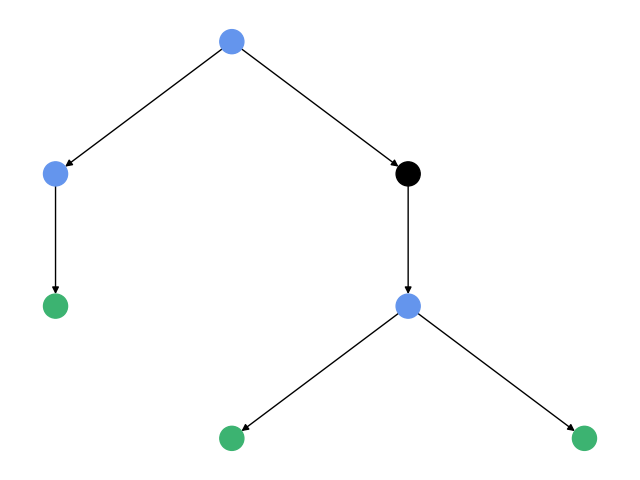
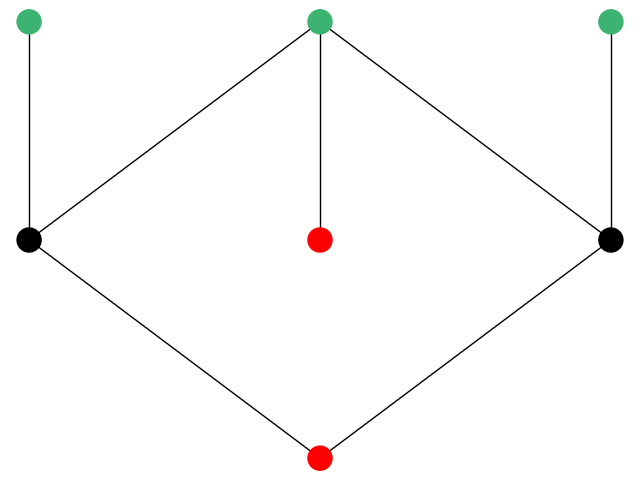
heading home

diff --git a/utils.py b/utils.py
@@ -411,7 +411,7 @@ def are_root_breakpoints(points):
                 out[i] = True
     return out
 
-def are_extremity_breakpoints(points): 
+def are_extremity_breakpoints(points):
     """Returns an array of boolean values assessing if each point is an extremity
     breakpoint by testing if it contains by two extremities, and is the most complex
     point that contains those two roots"""
@@ -491,7 +491,7 @@ def draw_arc(A, B, r = 0.25):
 
     theta = np.repeat(np.linspace(0, theta_limit, 100), 3).reshape((100, 3))
     return r * (np.cos(theta) * A + np.sin(theta) * B)
-    
+
 def create_tree_edges(points):
     # make a list of tuples describing orthogonal connections
     # and make a list of containments, for dotted lines
@@ -500,32 +500,54 @@ def create_tree_edges(points):
         for op, other_point in enumerate(points[p:]):
             if np.linalg.norm(point - other_point) == 1:
                 if is_contained_by(point, other_point):
-                    out.append((op+p, p))
-                else: 
                     out.append((p, op+p))
-    out = sorted(out, key=lambda x: x[0])
+                else:
+                    out.append((op+p, p))
+    # out = sorted(out, key=lambda x: x[0])
     return out
 
-def plot_tree(points, path):
+def plot_tree(points, path, type='root'):
+    """
+
+    possible types: root, extremity, root_extremity, root_breakpoint,
+    extremity_breakpoint,"""
     edges = create_tree_edges(points)
     G=nx.MultiDiGraph()
-    G.add_edges_from(edges)
+    G.add_edges_from(edges, style='dashed')
     edge_order = []
     for i in itertools.chain.from_iterable(edges):
         if i not in edge_order: edge_order.append(i)
     edge_order = np.array(edge_order)
     colors = np.repeat(0, len(points))
-    colors = np.where(are_extremities(points), 1, colors)
-    colors = np.where(are_extremity_breakpoints(points), 2, colors)
-    colors = [['black', 'mediumseagreen', 'cornflowerblue'][i] for i in colors]
+
+    if type == 'root':
+        colors = np.where(are_roots(points), 1, colors)
+        colors = [['black', 'red'][i] for i in colors]
+    elif type == 'extremity':
+        colors = np.where(are_extremities(points), 1, colors)
+        colors = [['black', 'mediumseagreen'][i] for i in colors]
+    elif type == 'root_extremity':
+        colors = np.where(are_roots(points), 1, colors)
+        colors = np.where(are_extremities(points), 2, colors)
+        colors = [['black', 'red', 'mediumseagreen'][i] for i in colors]
+    elif type == 'root_breakpoint':
+        colors = np.where(are_roots(points), 1, colors)
+        colors = np.where(are_root_breakpoints(points), 2, colors)
+        colors = [['black', 'red', 'mediumorchid'][i] for i in colors]
+    elif type == 'extremity_breakpoint':
+        colors = np.where(are_extremities(points), 1, colors)
+        colors = np.where(are_extremity_breakpoints(points), 2, colors)
+        colors = [['black', 'mediumseagreen', 'cornflowerblue']]
+
     colors = [colors[i] for i in edge_order]
 
     pos=graphviz_layout(G, prog='dot')
-    nx.draw(G, pos, with_labels=False, arrows=True, node_color=colors)
+    print(pos)
+    nx.draw(G, pos, with_labels=False, arrows=False, node_color=colors)
     plt.savefig(path + '.png')
-        
-    
-    
+
+
+
 
 # points = np.array((
 # (1, 0, 0),
@@ -534,7 +556,6 @@ def plot_tree(points, path):
 # (2, 1, 0),
 # (1, 2, 0)
 # ))
-# 
+#
 # edges = create_tree_edges(points)
-# print(edges)                
-    
+# print(edges)

diff --git a/tree_diagram.py b/tree_diagram.py
@@ -11,26 +11,17 @@ sys.path.insert(0,parentdir)
 from utils import make_plot, hz_to_cents, cartesian_product, get_ratios, are_roots
 from utils import cast_to_ordinal, are_root_breakpoints, are_extremities, are_extremity_breakpoints
 
-    
-from utils import create_tree_edges, plot_tree  
-# points = np.array((
-# (1, 0, 0),
-# (0, 1, 0),
-# (1, 1, 0),
-# (2, 1, 0),
-# (1, 2, 0)
-# ))
 
-# plot_tree(points, 'test')
+from utils import create_tree_edges, plot_tree
 primes = np.array((3, 5, 7))
-# edges = create_tree_edges(points)
+
 with open('chords/chords5.json') as json_file:
     chords = json.load(json_file)
     points = [np.array(i['points']) for i in chords]
-    
+
     num_extremities = np.array([np.count_nonzero(are_extremities(chord)) for chord in points])
     num_extremity_breakpoints = np.array([np.count_nonzero(are_extremity_breakpoints(chord)) for chord in points])
-    
+
     mask = np.logical_and(num_extremity_breakpoints == 3, num_extremities == 3)
     indexes = np.arange(len(points))[mask]
     choices = np.random.choice(indexes)
@@ -41,26 +32,5 @@ with open('chords/chords5.json') as json_file:
     A_colors = [['black', 'mediumseagreen', 'cornflowerblue'][i] for i in A_colors]
     make_plot(A, primes, currentdir+'/A', dot_size=2, colors=A_colors,
               ratios=False, origin=False, range_override=[-1, 3], connect_color='black', connect_size=1,
-              legend=False, origin_range=[-1, 3], transparent=True) 
-    plot_tree(A, 'A_')
-
-# import matplotlib.pyplot as plt
-# import networkx as nx
-# import itertools
-# G=nx.MultiDiGraph()
-# G.add_edges_from(edges)
-# edge_order = []
-# for i in itertools.chain.from_iterable(edges):
-#     if i not in edge_order: edge_order.append(i)
-# edge_order = np.array(edge_order)
-# colors = np.repeat(0, len(points))
-# colors = np.where(are_extremities(points), 1, colors)
-# colors = np.where(are_extremity_breakpoints(points), 2, colors)
-# colors = [['black', 'mediumseagreen', 'cornflowerblue'][i] for i in colors]
-# colors = [colors[i] for i in edge_order]
-# 
-# pos=graphviz_layout(G, prog='dot')
-# nx.draw(G, pos, with_labels=False, arrows=True, node_color=colors)
-# plt.savefig('test.png')
-# nx.nx_agraph.write_dot(G,'test.dot')
-# plt.savefig('hierarchy.png')
+              legend=False, origin_range=[-1, 3], transparent=True)
+    plot_tree(A, 'A_', 'root_extremity')
